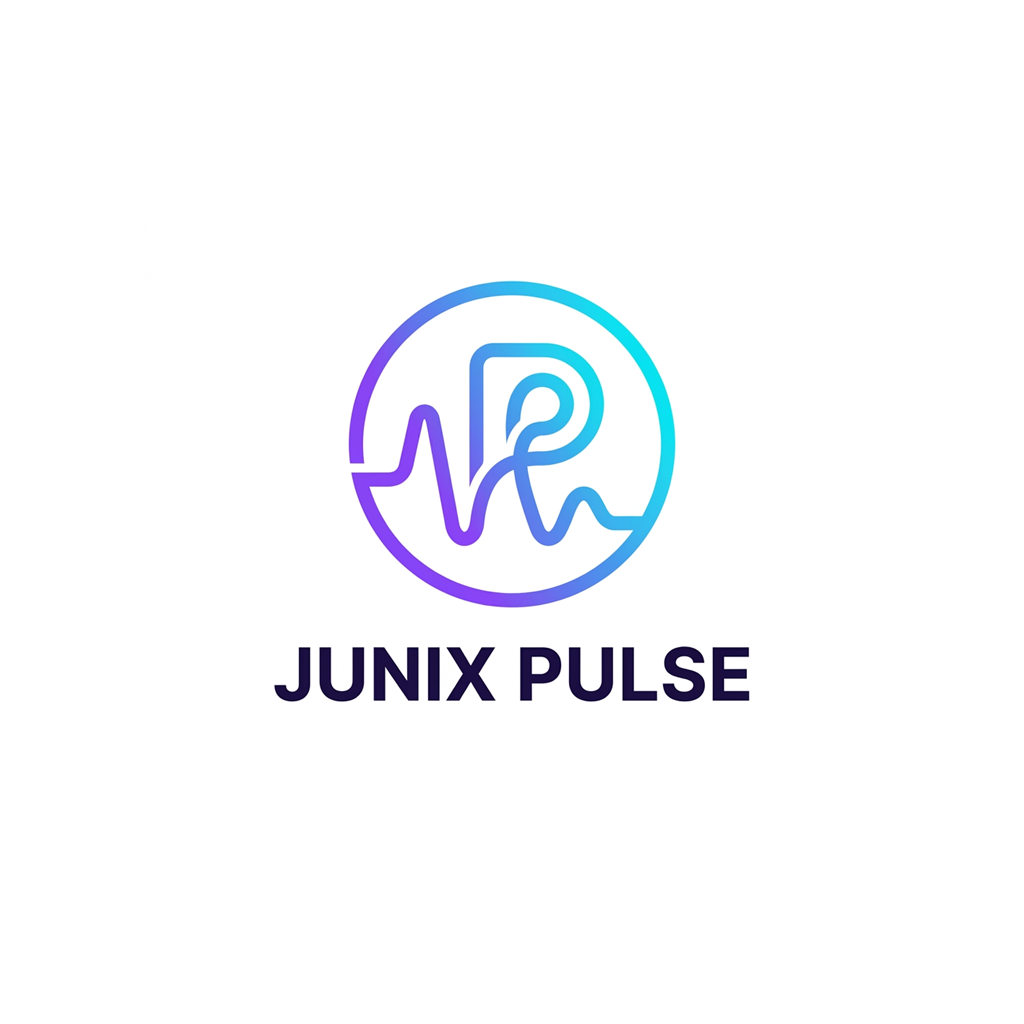
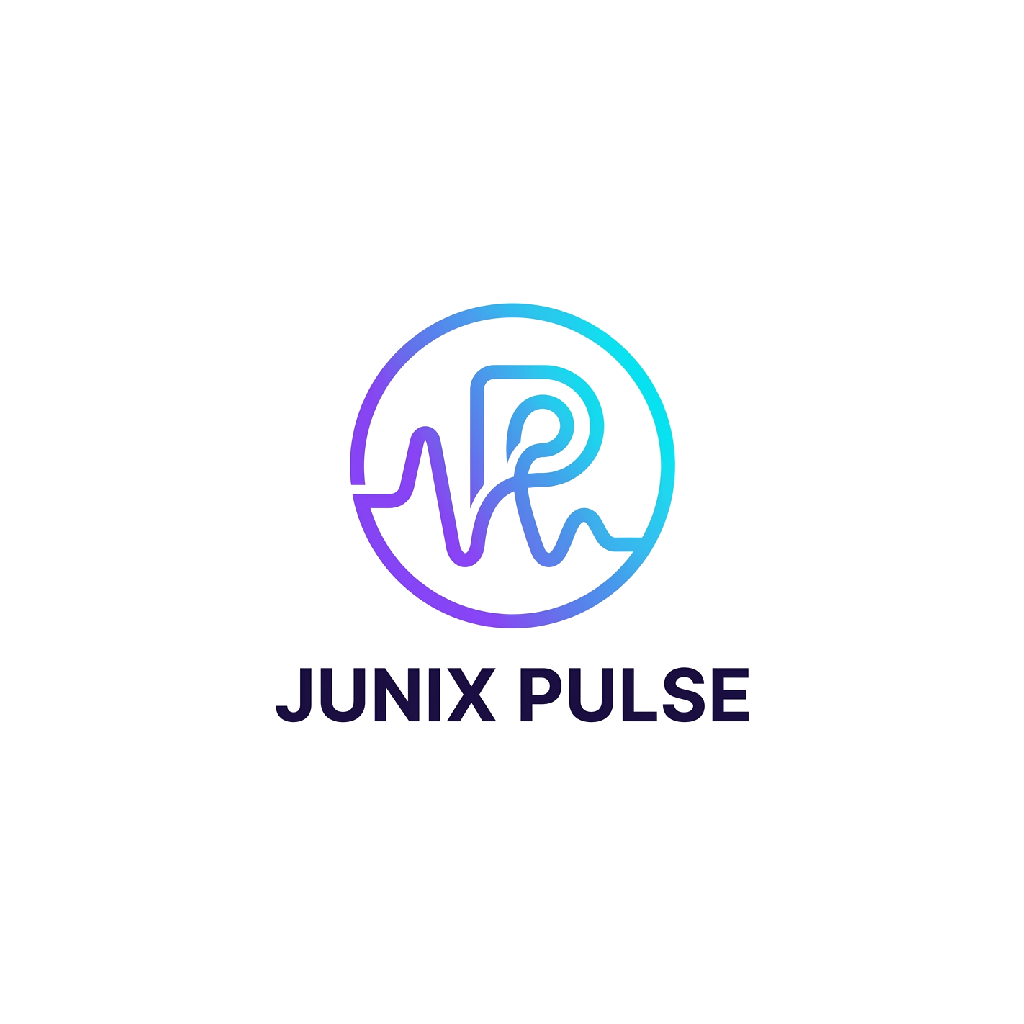
fix(ui): éliminer le carré blanc de démarrage et adopter la séquence directe Option A (DEF-06)

Changed region(s): [[0.25, 0.25, 0.75, 0.7188]]

diff --git a/src/__tests__/splash-and-logo.test.tsx b/src/__tests__/splash-and-logo.test.tsx
@@ -1,0 +1,68 @@
+/**
+ * Tests unitaires pour Lot 9 (DEF-06) : Identité visuelle et assets de lancement.
+ *
+ * Couverture :
+ * - Vérification de la transparence 100% (alpha = 0) sur les coins de splash-icon.png et android-icon-foreground.png
+ * - Rendu de PulseLogo avec accessibilityLabel
+ */
+
+import React from 'react';
+import ReactTestRenderer, { act } from 'react-test-renderer';
+import { PulseLogo } from '../components/ui/PulseLogo';
+import { useAppStore } from '../store/app-store';
+
+declare const require: (id: string) => any;
+declare const Buffer: any;
+declare const __dirname: string;
+
+const fs = require('fs');
+const path = require('path');
+const zlib = require('zlib');
+
+function getCornerAlpha(filePath: string): number {
+  const buffer = fs.readFileSync(filePath);
+  let pos = 8;
+  const chunks: any[] = [];
+  while (pos < buffer.length) {
+    const len = buffer.readUInt32BE(pos);
+    const type = buffer.toString('ascii', pos + 4, pos + 8);
+    if (type === 'IDAT') chunks.push(buffer.slice(pos + 8, pos + 8 + len));
+    pos += 12 + len;
+  }
+  const decomp = zlib.inflateSync(Buffer.concat(chunks));
+  return decomp[4];
+}
+
+describe('Lot 9 — Identité visuelle et lancement (DEF-06)', () => {
+  const assetsDir = path.resolve(__dirname, '../../assets/images');
+
+  it('garantit un fond transparent (alpha = 0) sur splash-icon.png pour éliminer le carré blanc', () => {
+    const splashPath = path.join(assetsDir, 'splash-icon.png');
+    expect(fs.existsSync(splashPath)).toBe(true);
+    const cornerAlpha = getCornerAlpha(splashPath);
+    expect(cornerAlpha).toBe(0);
+  });
+
+  it('garantit un fond transparent (alpha = 0) sur android-icon-foreground.png', () => {
+    const fgPath = path.join(assetsDir, 'android-icon-foreground.png');
+    expect(fs.existsSync(fgPath)).toBe(true);
+    const cornerAlpha = getCornerAlpha(fgPath);
+    expect(cornerAlpha).toBe(0);
+  });
+
+  it('rend correctement PulseLogo en mode statique avec accessibilité', () => {
+    act(() => {
+      useAppStore.setState({ themeMode: 'dark' });
+    });
+
+    let root: ReactTestRenderer.ReactTestRenderer;
+    act(() => {
+      root = ReactTestRenderer.create(<PulseLogo size={64} mode="static" />);
+    });
+
+    const svg = root!.root.findByProps({ accessibilityLabel: 'Junix Pulse logo' });
+    expect(svg).toBeDefined();
+    expect(svg.props.width).toBe(64);
+    expect(svg.props.height).toBe(64);
+  });
+});

diff --git a/src/app/_layout.tsx b/src/app/_layout.tsx
@@ -31,7 +31,6 @@ import { SafeAreaProvider } from "react-native-safe-area-context";
 
 import { Snackbar } from "@/components/feedback/Snackbar";
 import { AnimatedBackgroundGlow } from "@/components/ui/AnimatedBackgroundGlow";
-import { SplashAnimated } from "@/components/ui/SplashAnimated";
 import type { ThemePalette } from "@/constants/palettes";
 import { getDatabase } from "@/database/sqlite";
 import { useTheme } from "@/hooks/use-theme";
@@ -79,12 +78,8 @@ export default function RootLayout() {
   const appReady = fontsLoaded || !!fontError;
 
   useEffect(() => {
-    // Masquer le splash natif dès que les fonts sont prêtes,
-    // puis afficher SplashAnimated à la place pendant l'init DB
+    // Option A : Masquer le splash natif une fois que les polices ET la base sont prêtes (DEF-06)
     if (!appReady) return;
-
-    // Masquer immédiatement le splash natif Expo
-    SplashScreen.hideAsync();
 
     async function initialize() {
       try {
@@ -110,6 +105,9 @@ export default function RootLayout() {
         const message =
           error instanceof Error ? error.message : "Erreur base de données";
         setDbError(message);
+      } finally {
+        // Révéler directement l'application sans écran animé redondant (Option A)
+        await SplashScreen.hideAsync();
       }
     }
 
@@ -253,8 +251,6 @@ export default function RootLayout() {
         </Stack>
         {/* Snackbar global (au-dessus de tout le contenu) */}
         <Snackbar />
-        {/* Splash animé (par-dessus l'app, fondu sortant quand prêt) */}
-        <SplashAnimated isReady={dbReady} />
       </SafeAreaProvider>
     </GestureHandlerRootView>
   );

diff --git a/src/components/ui/PulseLogo.tsx b/src/components/ui/PulseLogo.tsx
@@ -209,23 +209,22 @@ export function PulseLogo({ size = 80, mode = 'static', onDrawComplete }: PulseL
         */}
         <AnimatedPath
           d={[
-            // Tige verticale gauche du P
-            'M 30 78',
-            'L 30 22',
-            // Boucle du haut du P (demi-cercle droit)
-            'C 30 22 30 16 36 16',
-            'L 54 16',
-            'C 66 16 66 28 66 34',
-            'C 66 40 60 48 54 48',
-            'L 30 48',
-            // Ligne de pouls (signature cardiaque)
-            'M 30 62',
-            'L 40 62',
-            'L 45 54',
-            'L 52 72',
-            'L 58 56',
-            'L 62 62',
-            'L 72 62',
+            // Tige verticale et boucle du P équilibrée
+            'M 28 80',
+            'L 28 20',
+            'C 28 14 34 14 42 14',
+            'L 56 14',
+            'C 70 14 74 24 74 34',
+            'C 74 44 68 50 56 50',
+            'L 28 50',
+            // Ligne de pouls centrée (signature cardiaque)
+            'M 24 64',
+            'L 38 64',
+            'L 44 54',
+            'L 52 74',
+            'L 60 56',
+            'L 65 64',
+            'L 76 64',
           ].join(' ')}
           stroke={`url(#${gradId})`}
           strokeWidth={4.5}

diff --git a/jest.setup.js b/jest.setup.js
@@ -17,8 +17,25 @@ jest.mock('react-native-reanimated', () => {
     },
     useSharedValue: (initialValue) => ({ value: initialValue }),
     useAnimatedStyle: (styleFunc) => styleFunc(),
-    withTiming: (toValue) => toValue,
+    useAnimatedProps: (propsFunc) => propsFunc(),
+    withTiming: (toValue, _config, cb) => {
+      if (cb) cb(true);
+      return toValue;
+    },
+    withSpring: (toValue, _config, cb) => {
+      if (cb) cb(true);
+      return toValue;
+    },
+    withRepeat: (anim) => anim,
+    withSequence: (...anims) => anims[0],
+    withDelay: (_delay, anim) => anim,
     useReducedMotion: () => false,
+    Easing: {
+      bezier: () => (t) => t,
+      inOut: (fn) => fn,
+      ease: (t) => t,
+    },
+    runOnJS: (fn) => fn,
     // Animated components
     View,
   };
